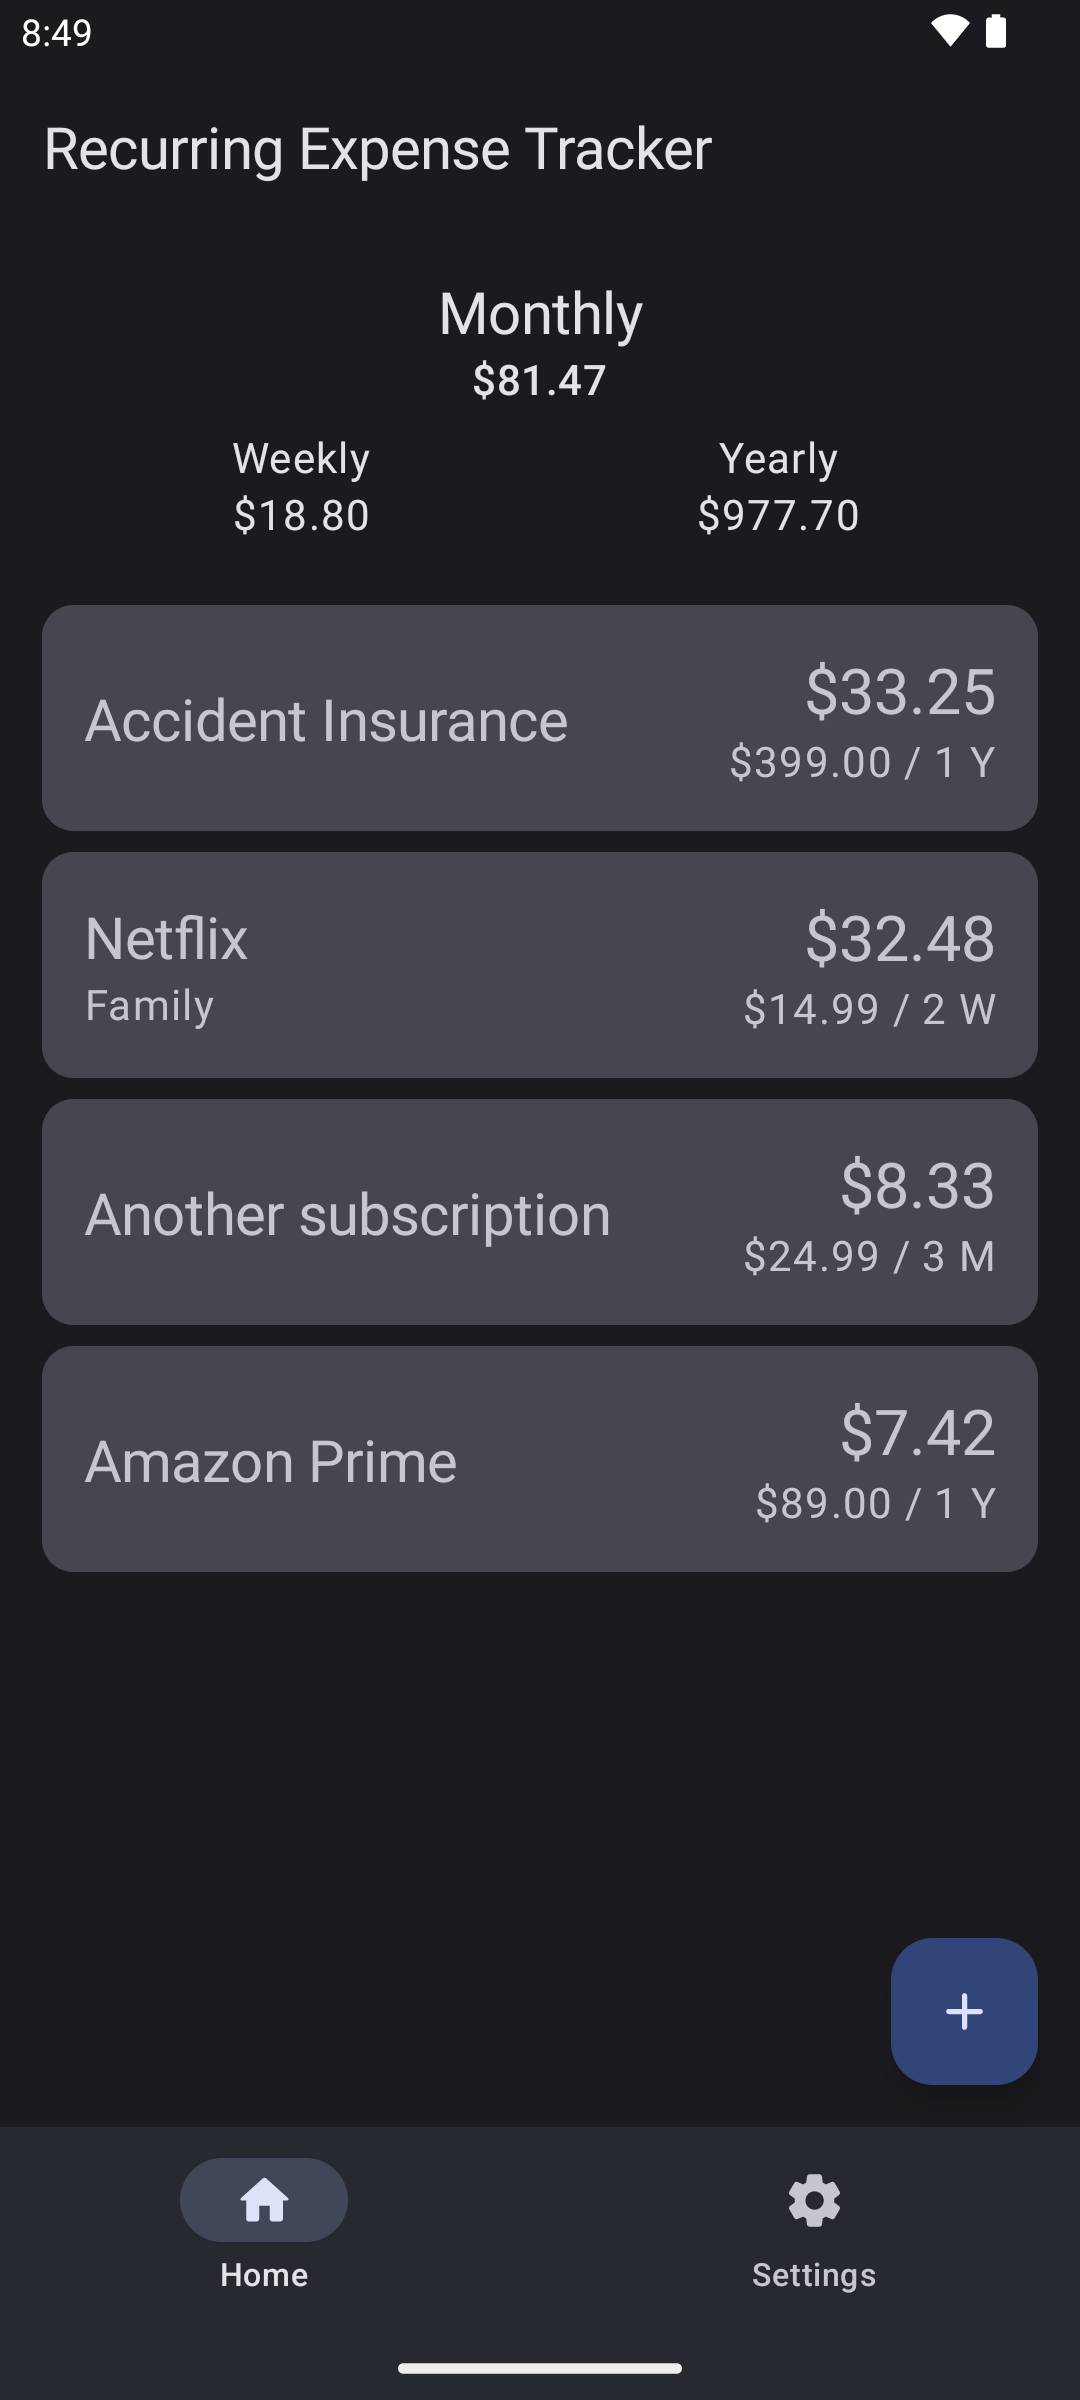
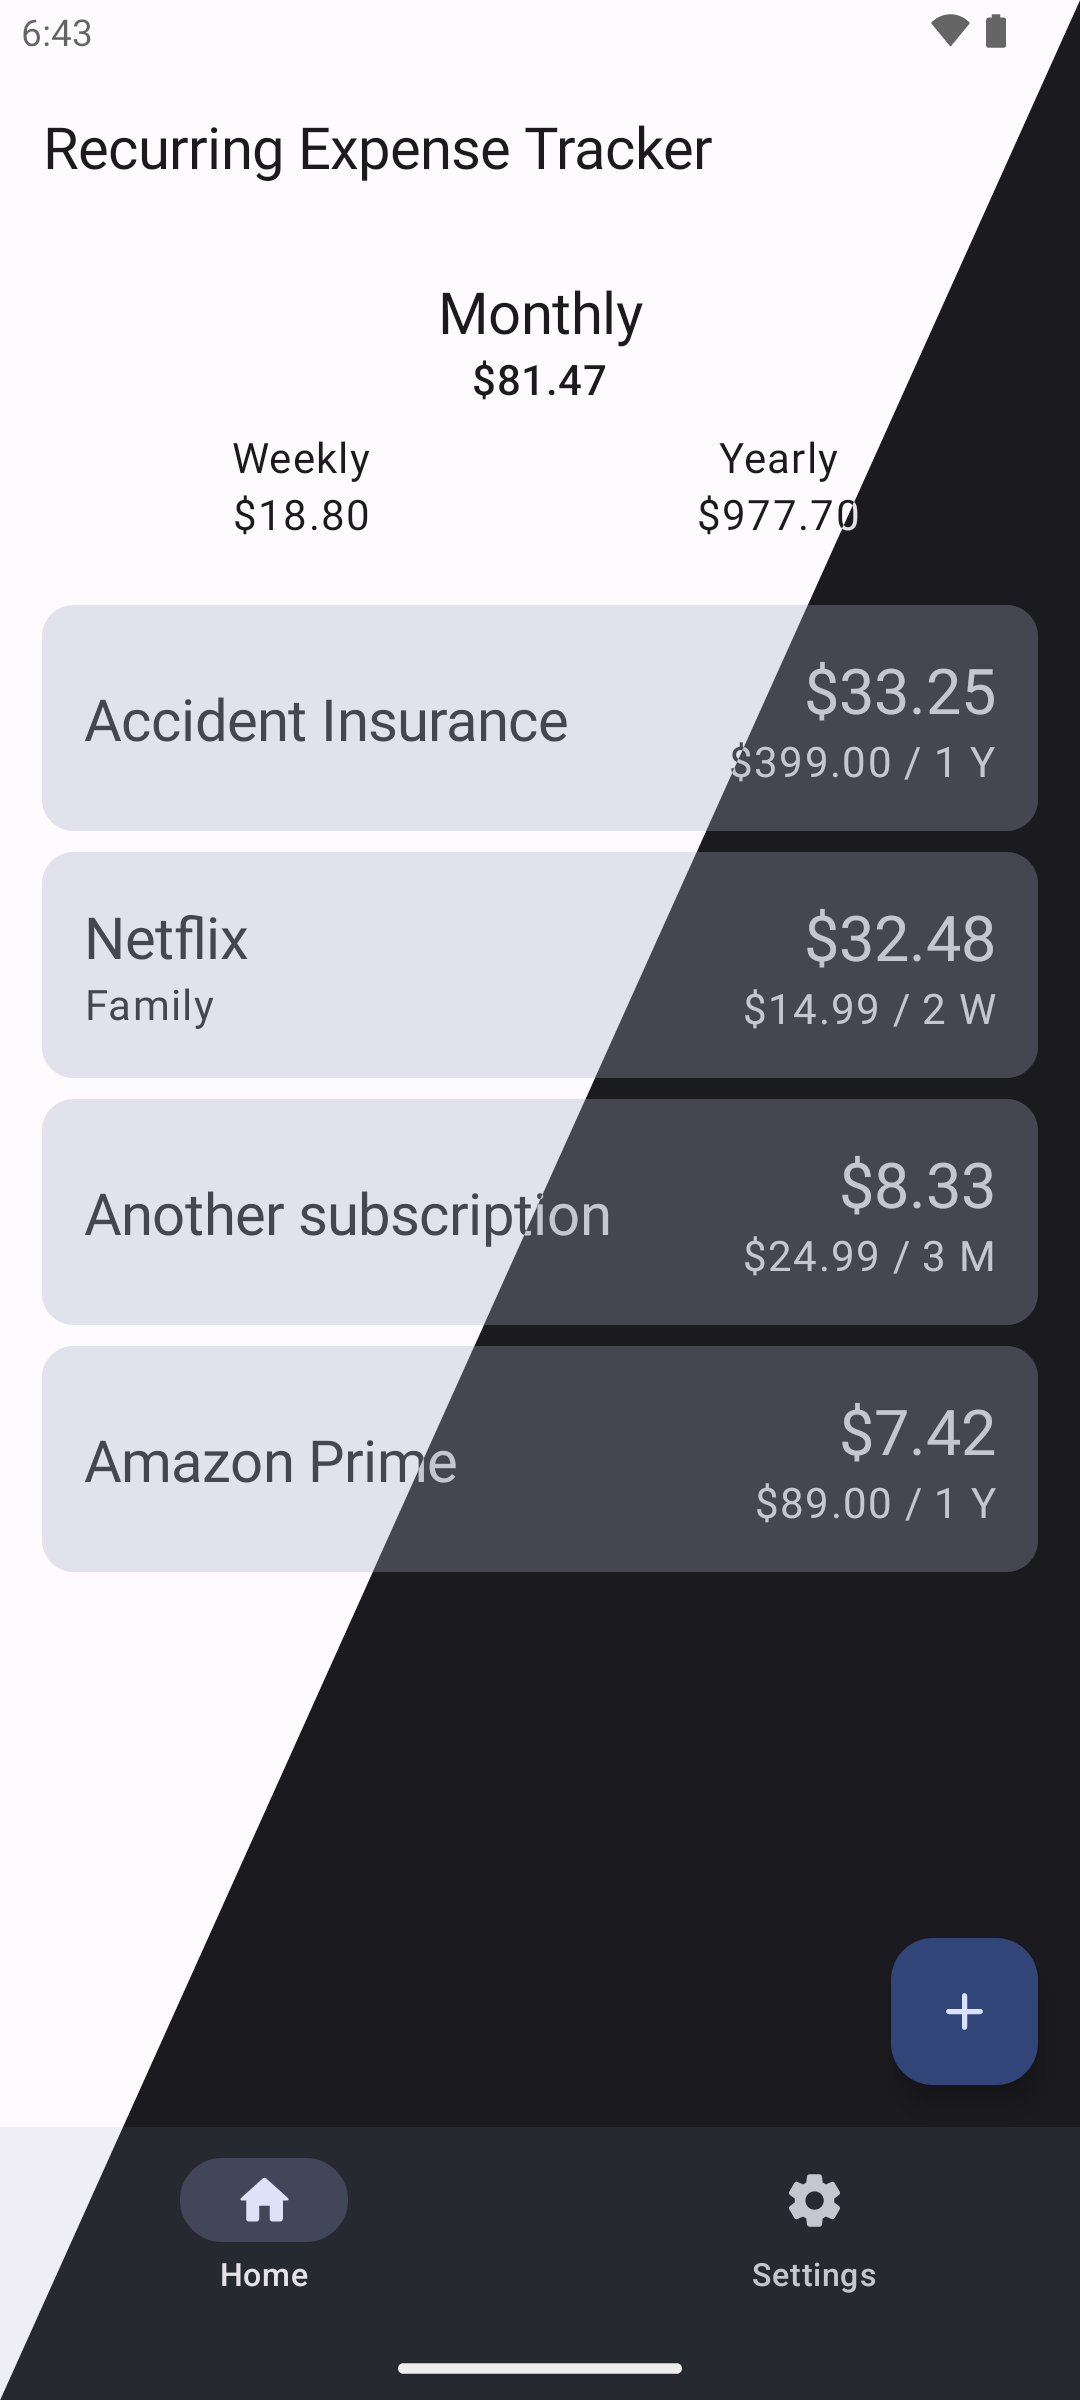
Create new release 0.3.0
Update screenshots
Update README.md
Add changelog

diff --git a/README.md b/README.md
@@ -1,4 +1,4 @@
-<p align="center"><img src="fastlane/metadata/android/en-US/images/icon.png" width="150"></a></p> 
+<p align="center"><img src="fastlane/metadata/android/en-US/images/icon.png" width="150"></p> 
 <h2 align="center"><b>Recurring Expense Tracker</b></h2>
 <h4 align="center">A Material You recurring expense tracker, allowing you to keep track of your monthly spending.
 </h4>
@@ -26,4 +26,5 @@ It's a simple app with the basic functionality. My idea is to add new features o
 <div style="display:flex">
 <img src="fastlane/metadata/android/en-US/images/phoneScreenshots/01.png" width="360"/>
 <img src="fastlane/metadata/android/en-US/images/phoneScreenshots/02.png" width="360"/>
+<img src="fastlane/metadata/android/en-US/images/phoneScreenshots/03.png" width="360"/>
 </div>
